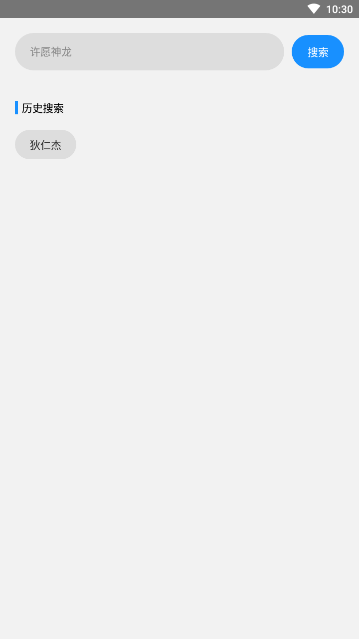
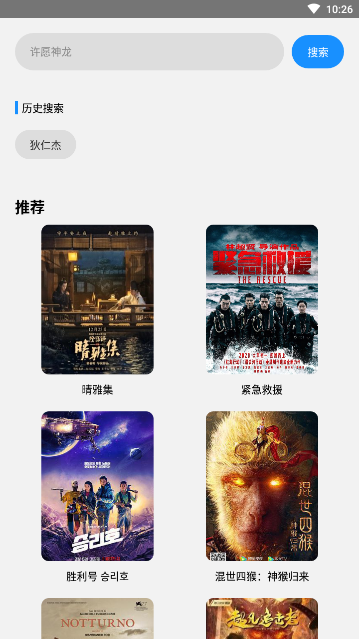
修改和优化搜索问题

diff --git a/src/pages/SearchPage.js b/src/pages/SearchPage.js
@@ -22,7 +22,7 @@ class  MyPage extends Component {
     componentDidMount(){
         StorageUtil.get("historyLabels").then((res)=>{
             if(res){
-                this.setState({historyLabels:res})
+                this.setState({historyLabels:res.slice(0,20)})
             }
         });
         this.getRecommend();
@@ -35,19 +35,33 @@ class  MyPage extends Component {
         });
     }
 
+    clearInput =()=>{
+        this.setState({keyword:null,searching:false})
+    }
+
     render(){
         let {placeholder,classify} = this.props.navigation.state.params;
         let {historyLabels,searching,searchResult,keyword,loading} = this.state;
         return (
             <View style={styles.wrapper}>
                 <View style={styles.searchBarWrapper}>
-                    <TextInput
-                    style={styles.textInput}
-                    onChangeText={this._onChangeText}
-                    placeholder={placeholder}
-                    value={keyword}
-                    clearButtonMode={"while-editing"}
-                ></TextInput>
+                    <View style={styles.textInputWrapper}>
+                        <TextInput
+                            style={styles.textInput}
+                            onChangeText={this._onChangeText}
+                            placeholder={placeholder}
+                            value={keyword}
+                            clearButtonMode={"while-editing"}
+                        ></TextInput>
+                        {
+                            keyword ?
+                                <TouchableOpacity onPress={this.clearInput}>
+                                    <Image style={styles.clearIcon} source={require("../static/image/icon-clear.png")}/>
+                                </TouchableOpacity> : null
+                        }
+
+                    </View>
+
                     <TouchableOpacity onPress={this._goSearch} >
                         <View style={styles.button}>
                             <Text style={styles.searchText}>搜索</Text>
@@ -90,7 +104,7 @@ class  MyPage extends Component {
                             }
 
                         </View>
-                        <RecommendComponent horizontal={false} classify={classify}/>
+                        <RecommendComponent {...this.props} horizontal={false} classify={classify}/>
                     </ScrollView>
                 }
             </View>
@@ -115,20 +129,23 @@ class  MyPage extends Component {
         )
     }
 
-    _goSearch=()=>{
+    _goSearch= async () => {
         let kw = this.state.keyword || this.props.navigation.state.params.placeholder
         let {historyLabels} = this.state;
-        let index = historyLabels.findIndex((item)=>{
+        let index = historyLabels.findIndex((item) => {
             return item == kw;
         });
-        if(index != -1){
-            historyLabels.splice(index,1)
+        if (index != -1) {
+            historyLabels.splice(index, 1)
         }
         historyLabels.unshift(kw);
+        historyLabels = historyLabels.slice(0,20)
         this.state.pageNum = 1;
-        this.setState({historyLabels,pageNum:1});
+        await this._onSearch(kw);
+        //等待请求完成再设置缓存
+        this.setState({historyLabels, pageNum: 1});
         StorageUtil.set("historyLabels", this.state.historyLabels);
-        this._onSearch(kw)
+
     }
 
     _onHistorySearch=(keyword)=>{
@@ -147,17 +164,21 @@ class  MyPage extends Component {
     }
 
     _onSearch=(kw)=>{
-        let {pageNum,pageSize} = this.state;
-        this.setState({loading:true});
-        searchService({keyword:kw,pageNum,pageSize}).then((res)=>{
-            this.setState({
-                searchResult:res.data,
-                total:res.total,
-                searching:true
-            })
-        }).finally(()=>{
-            this.setState({loading:false})
-        });
+        return new Promise((resolve)=>{
+            let {pageNum,pageSize} = this.state;
+            this.setState({loading:true});
+            searchService({keyword:kw,pageNum,pageSize}).then((res)=>{
+                this.setState({
+                    searchResult:res.data,
+                    total:res.total,
+                    searching:true
+                })
+            }).finally(()=>{
+                this.setState({loading:false})
+                resolve()
+            });
+        })
+
     }
 
 
@@ -184,13 +205,23 @@ const styles = StyleSheet.create({
         padding:20,
         alignItems:"center"
     },
+    textInputWrapper:{
+        flex:1,
+        borderRadius:50,
+        backgroundColor:"#ddd",
+        flexDirection:"row",
+        alignItems:"center"
+    },
     textInput:{
         flex:1,
         height:50,
-        borderRadius:50,
-        backgroundColor:"#ddd",
         justifyContent:"center",
         paddingLeft:20
+    },
+    clearIcon:{
+        width:30,
+        height:30,
+        marginRight:10
     },
     button:{
         borderRadius:50,

diff --git a/src/components/RecommendComponent.js b/src/components/RecommendComponent.js
@@ -35,6 +35,10 @@ export default class  RecommendComponent extends Component {
             this.setState({recommendList:res.data});
         });
     }
+    //点击跳转到详情
+    goDetail=(item)=>{
+        this.props.navigation.push('DetailPage',item)
+    }
 
     render(){
         let {recommendList} = this.state;
@@ -61,8 +65,6 @@ export default class  RecommendComponent extends Component {
                                 }
                         </View>
                     }
-
-
                 </View>
                 : null
         )
@@ -75,11 +77,14 @@ export default class  RecommendComponent extends Component {
     }
 
     _renderItem=(item,index)=>{
+        let {horizontal} = this.props;
         return (
-            <View key={"recommondImg"+index} style={[styles.recommondItem,this.props.horizontal ? null : styles.gridItem]}>
-                <Image style={styles.recommondImg} source={{uri:item.localImg? HOST + item.localImg :item.img}}></Image>
-                <Text numberOfLines={1}>{item.name}</Text>
-            </View>
+            <TouchableOpacity onPress={e=>this.goDetail(item)} key={"_renderItem"+index}>
+                <View key={"recommondImg"+index} style={horizontal ? styles.recommondItem : [styles.recommendItemVertical,{marginTop: index>1? 20 : 0}]}>
+                    <Image style={styles.recommondImg} source={{uri:item.localImg? HOST + item.localImg :item.img}}></Image>
+                    <Text numberOfLines={1}>{item.name}</Text>
+                </View>
+            </TouchableOpacity>
         )
     }
 
@@ -96,13 +101,25 @@ const styles = StyleSheet.create({
         width:150,
         marginRight:20,
         display:"flex",
-        alignItems:"center"
+        alignItems:"center",
+        justifyContent:"center",
+        overflow:"hidden"
     },
     recommondImg:{
         width:150,
         height:200,
         borderRadius:10,
         marginBottom:10
+    },
+    recommendItemVertical:{
+        width:(width - 40)/2,
+        justifyContent:"center",
+        display:"flex",
+        alignItems:"center",
+        overflow:"hidden"
+    },
+    recommendItemWrapper:{
+        width: (width - 40)/2,
     },
     titleWrapper:{
         borderBottomWidth:1,

diff --git a/src/pages/PlayerPage.js b/src/pages/PlayerPage.js
@@ -181,7 +181,7 @@ class PlayerPage extends Component {
                     </View>
                     : null
                 }
-                <RecommendComponent classify={classify}/>
+                <RecommendComponent {...this.props} classify={classify}/>
             </ScrollView>
         )
     }

diff --git a/src/components/CategoryComponent.js b/src/components/CategoryComponent.js
@@ -57,7 +57,6 @@ export default class  CategoryComponent extends Component {
     }
 
     goDetail=(item)=>{
-        console.log(item)
         this.props.navigation.push('DetailPage',item)
     }
 }

diff --git a/src/config/index.js b/src/config/index.js
@@ -1,2 +1,2 @@
-export const HOST = "http://192.168.0.102:5000";
+export const HOST = "http://192.168.0.101:5000";
 export const SUCCESS = "SUCCESS";
